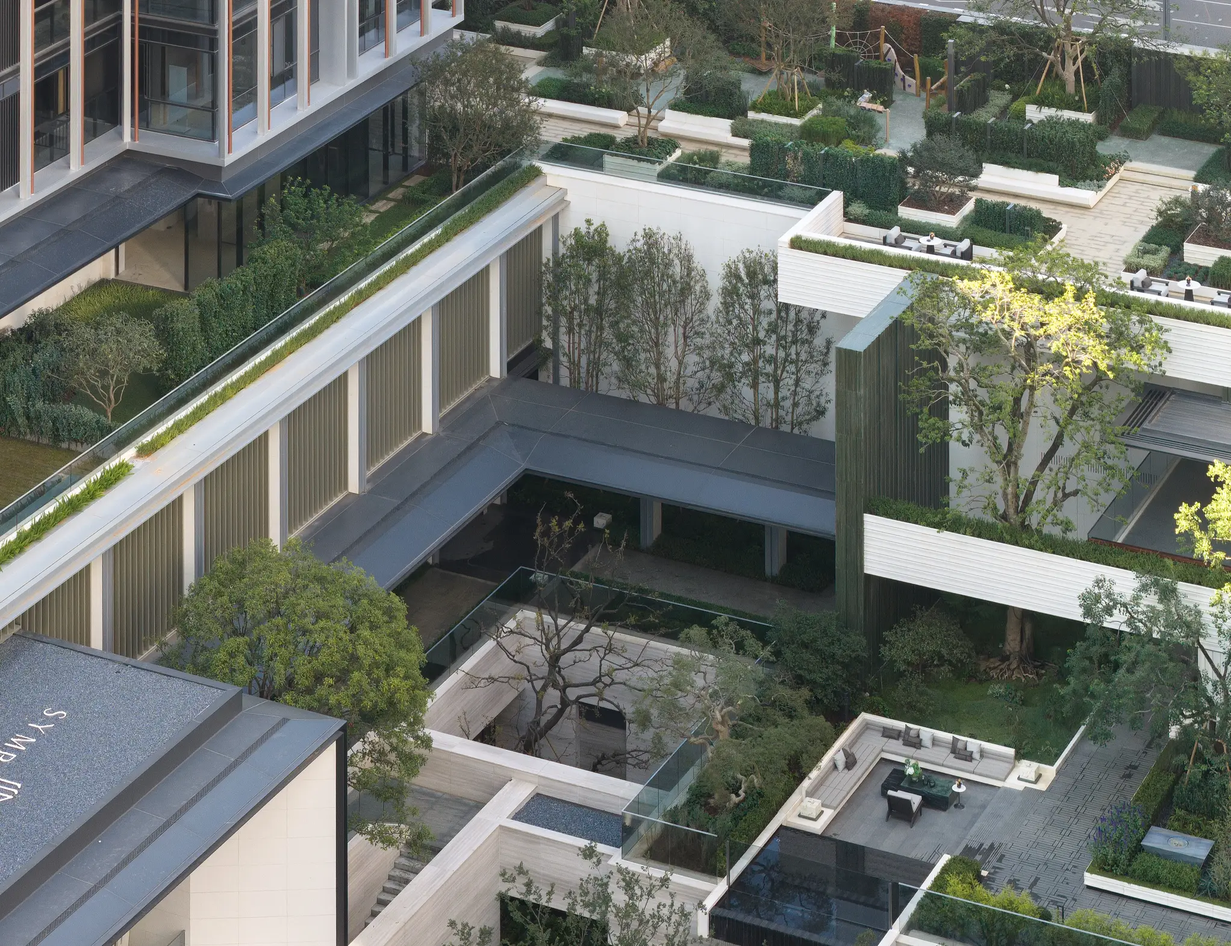
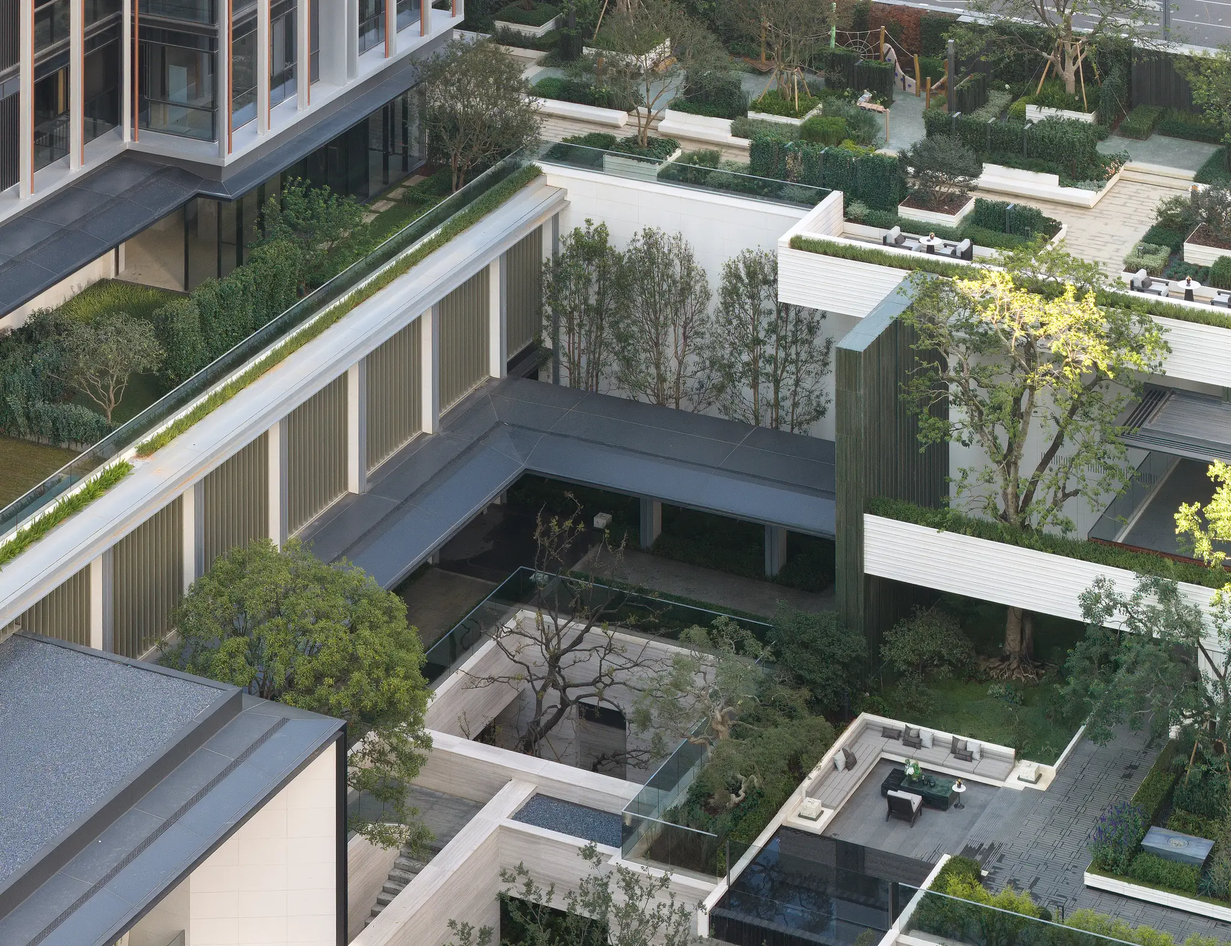
Replace four retouched Symphony Yiwu photographs.
The filenames stay the same, so the cover, order, and site.json are unchanged. Project images and map covers now load with a content hash query, because those paths are cached for 31 days.

Changed region(s): [[0.0, 0.749, 0.0616, 0.8739]]

diff --git a/eleventy.config.js b/eleventy.config.js
@@ -1,8 +1,37 @@
 const fs = require("fs");
+const path = require("path");
 const crypto = require("crypto");
 const { execFile } = require("child_process");
 
+function collectProjectImageVersions() {
+  const versions = Object.create(null);
+  const root = path.join("src", "images", "projects");
+  if (!fs.existsSync(root)) return versions;
+  const stack = [root];
+  while (stack.length) {
+    const dir = stack.pop();
+    for (const name of fs.readdirSync(dir)) {
+      const abs = path.join(dir, name);
+      if (fs.statSync(abs).isDirectory()) {
+        stack.push(abs);
+        continue;
+      }
+      if (!/\.(webp|jpe?g|png)$/i.test(name)) continue;
+      const rel = "/" + path.relative("src", abs).split(path.sep).join("/");
+      versions[rel] = crypto.createHash("sha256").update(fs.readFileSync(abs)).digest("hex").slice(0, 10);
+    }
+  }
+  return versions;
+}
+
+function versionedImageUrl(url, versions) {
+  if (typeof url !== "string" || url.includes("?")) return url;
+  const hash = versions[url];
+  return hash ? url + "?v=" + hash : url;
+}
+
 module.exports = function(eleventyConfig) {
+  const imageVersions = collectProjectImageVersions();
   const assetVersion = crypto
     .createHash("sha256")
     .update(fs.readFileSync("src/assets/style.css"))
@@ -79,6 +108,24 @@ module.exports = function(eleventyConfig) {
         )
       )
       .join("/");
+  });
+
+  // Same-name replacements must not keep the 31-day cached bytes.
+  // The query is a content hash; paths that already carry a query are left alone.
+  eleventyConfig.addFilter("imgQuery", (value) => {
+    const url = String(value || "").split("?")[0];
+    const hash = imageVersions[url];
+    return hash ? "?v=" + hash : "";
+  });
+  eleventyConfig.addFilter("versionProjectImages", (projects) => {
+    return (projects || []).map((project) => ({
+      ...project,
+      url: versionedImageUrl(project.url, imageVersions),
+      images: (project.images || []).map((img) => {
+        if (typeof img === "string") return versionedImageUrl(img, imageVersions);
+        return { ...img, url: versionedImageUrl(img.url, imageVersions) };
+      })
+    }));
   });
 
   eleventyConfig.addFilter("js", (value) => {
